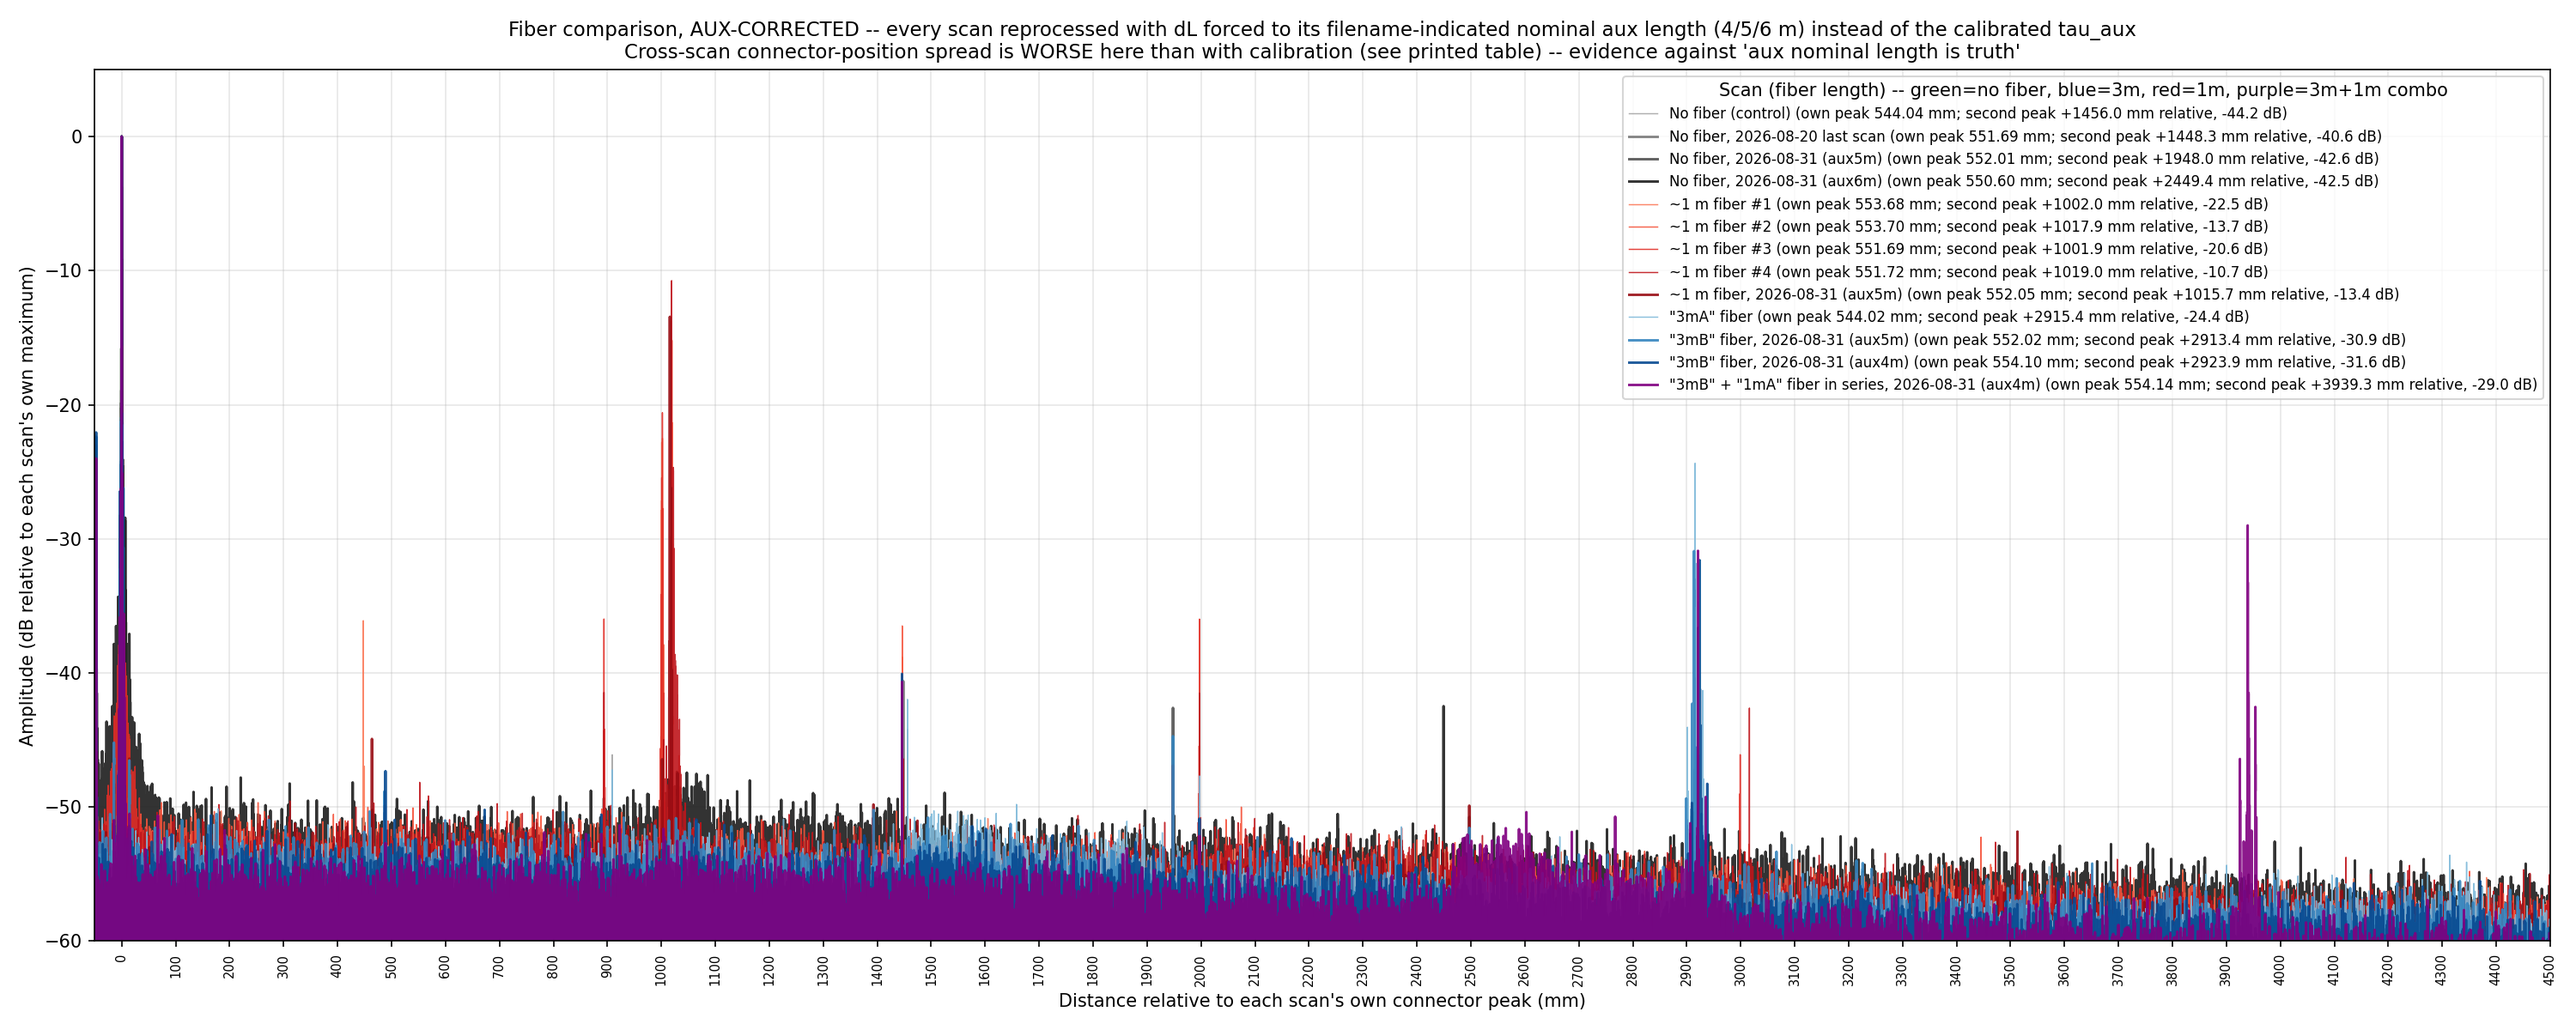
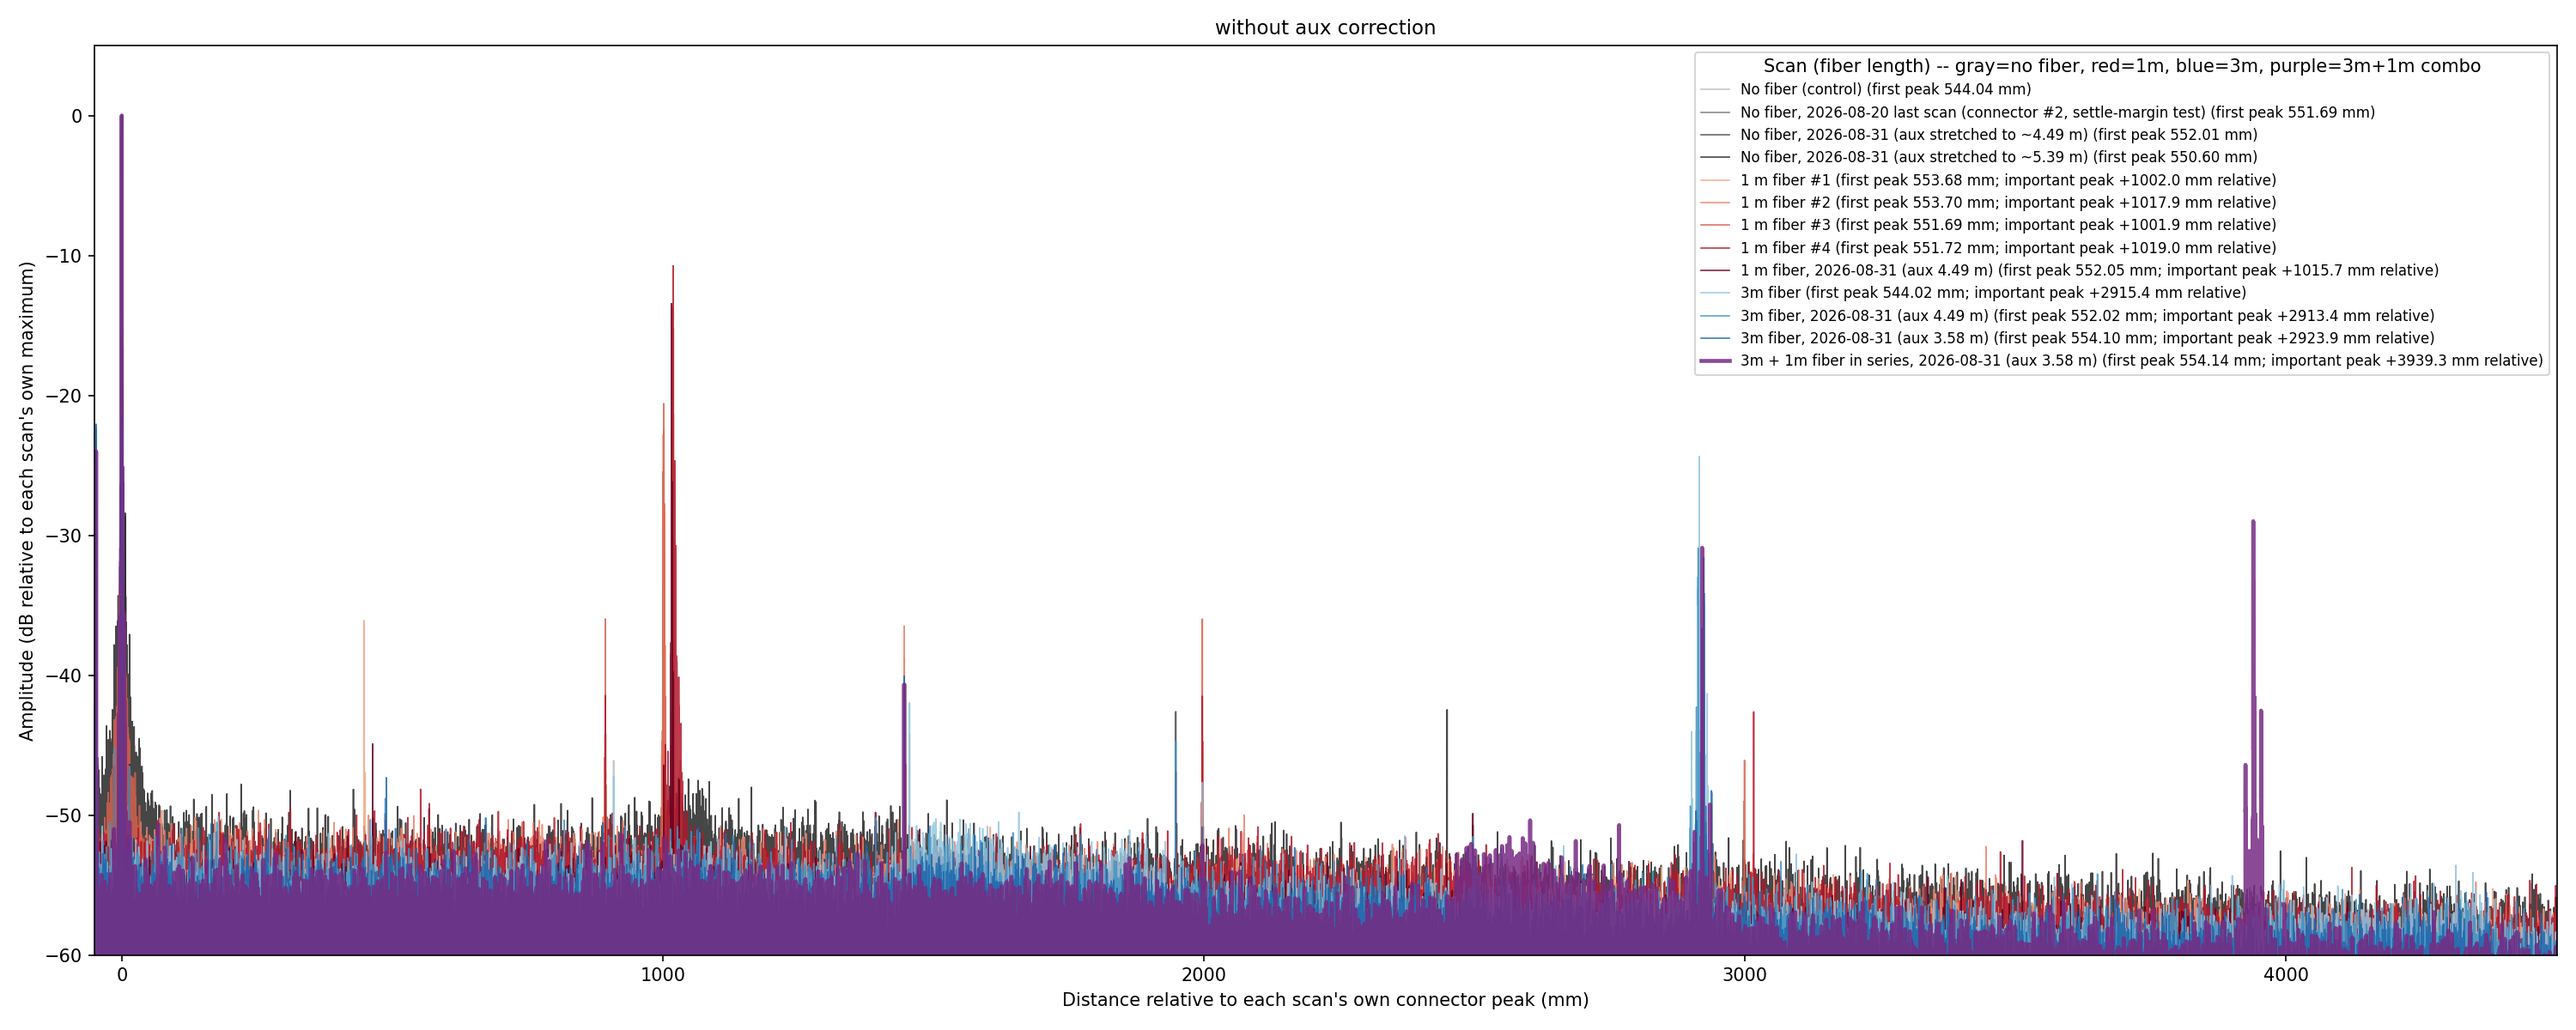
neu

diff --git a/tools/plot_fiber_comparison.py b/tools/plot_fiber_comparison.py
@@ -1,0 +1,263 @@
+#!/usr/bin/env python3
+"""
+Fiber-comparison plots used in the 2026-08-31 progress report (KW36).
+
+Reads the already-processed per-scan reflectogram CSVs under results/ (each
+has columns distance_m, amplitude_dB, normalized to 0 dB at that scan's own
+maximum) and produces:
+
+  - results/<date>/fiber_comparison_relative_to_connector.png
+    every scan's dominant (0 dB) connector peak shifted to x=0, calibrated
+    tau_aux axis.
+  - results/<date>/fiber_comparison_extended_with_2026-08-31.png
+    same data, absolute (not connector-relative) x-axis.
+  - results/<date>/fiber_comparison_aux_corrected.png
+    same scans, but read from results/<date>/aux_corrected/ (dL forced to
+    each scan's filename-indicated nominal aux length instead of the
+    fringe-counting-calibrated tau_aux) -- see logs/2026-08-31.md point 4.
+  - results/<date>/<date>_vs_2026-08-20_nofiber_comparison.png
+    the five 2026-08-20 no-fiber connector-swap controls vs. today's two
+    repeat no-fiber scans, to check whether today's connector position is a
+    new state or matches where the bench was left last session.
+
+"First peak" = each curve's own argmax (its connector reflection).
+"Important peak" = the strongest peak beyond a guard band around the first
+peak (found with scipy.signal.find_peaks on the dB trace, floor -50 dB),
+i.e. the fiber/aux secondary reflection -- see HANDOVER.md and
+logs/2026-08-31.md for the double-bounce interpretation.
+
+Usage: python tools/plot_fiber_comparison.py
+"""
+
+from pathlib import Path
+
+import numpy as np
+from scipy.signal import find_peaks
+
+ROOT = Path(__file__).resolve().parent.parent
+DATE = "2026-08-31"
+OUT = ROOT / "results" / DATE
+
+PEAK_FLOOR_DB = -50.0
+GUARD_MM = 50.0       # exclude the first peak's own sidelobes from the search
+SEARCH_MAX_MM = 4500.0
+MIN_PEAK_SPACING_M = 200e-6  # matches process_reflectogram_aux.py's find_peaks distance
+
+# category -> matplotlib color sequence, one entry per scan in that category,
+# in the order scans are listed below (gray=no fiber, red=1m, blue=3m, purple=combo)
+CATEGORY_COLORS = {
+    "nofiber": ["#bdbdbd", "#757575", "#4d4d4d", "#262626"],
+    "1m": ["#f4a582", "#e8836a", "#d6604d", "#b2182b", "#67001f"],
+    "3m": ["#92c5de", "#4393c3", "#2166ac", "#053061"],
+    "combo": ["#762a83"],
+}
+
+# (label, category, path to calibrated reflectogram CSV, path to
+#  aux-corrected reflectogram CSV) -- both relative to ROOT.
+SCANS = [
+    ("No fiber (control)", "nofiber",
+     "results/2026-08-20/2026-08-20_nofiberattheend_trimmed1530_reflectogram_ch1ch3meas_wide.csv",
+     "results/2026-08-31/aux_corrected/nofiber_control_reflectogram.csv"),
+    ("No fiber, 2026-08-20 last scan (connector #2, settle-margin test)", "nofiber",
+     "results/2026-08-20/2026-08-20_nofiberattheendandnotthorlabsconnectorandfibercleanedandnewconnectorneueeinschwingzeit_full_reflectogram_ch1ch3meas_wide_reflectogram.csv",
+     "results/2026-08-31/aux_corrected/nofiber_0820last_reflectogram.csv"),
+    ("No fiber, 2026-08-31 (aux stretched to ~4.49 m)", "nofiber",
+     "results/2026-08-31/2026-08-31-ohnefiberaux5m_reflectogram_reflectogram.csv",
+     "results/2026-08-31/aux_corrected/nofiber_aux5m_reflectogram.csv"),
+    ("No fiber, 2026-08-31 (aux stretched to ~5.39 m)", "nofiber",
+     "results/2026-08-31/2026-08-31-ohnefiberaux6m_reflectogram_reflectogram.csv",
+     "results/2026-08-31/aux_corrected/nofiber_aux6m_reflectogram.csv"),
+    ("1 m fiber #1", "1m",
+     "results/2026-08-20/2026-08-19_deltaLwirklich1m_trimmed1530_reflectogram_ch1ch3meas_wide.csv",
+     "results/2026-08-31/aux_corrected/1mfiber1_reflectogram.csv"),
+    ("1 m fiber #2", "1m",
+     "results/2026-08-20/2026-08-19_neuefaserauch1mlang_trimmed1530_reflectogram_ch1ch3meas_wide.csv",
+     "results/2026-08-31/aux_corrected/1mfiber2_reflectogram.csv"),
+    ("1 m fiber #3", "1m",
+     "results/2026-08-20/2026-08-19_neueneuefaserauch1mlang_trimmed1530_reflectogram_ch1ch3meas_wide.csv",
+     "results/2026-08-31/aux_corrected/1mfiber3_reflectogram.csv"),
+    ("1 m fiber #4", "1m",
+     "results/2026-08-20/2026-08-19_neueneueneuefaserauch1mlang_trimmed1530_reflectogram_ch1ch3meas_wide.csv",
+     "results/2026-08-31/aux_corrected/1mfiber4_reflectogram.csv"),
+    ("1 m fiber, 2026-08-31 (aux 4.49 m)", "1m",
+     "results/2026-08-31/2026-08-31-1mfiberaux5m_reflectogram_reflectogram.csv",
+     "results/2026-08-31/aux_corrected/1mfiber_aux5m_reflectogram.csv"),
+    ("3m fiber", "3m",
+     "results/2026-08-20/2026-08-20_3mfiber_trimmed1530_reflectogram_ch1ch3meas_wide.csv",
+     "results/2026-08-31/aux_corrected/3mfiber_reflectogram.csv"),
+    ("3m fiber, 2026-08-31 (aux 4.49 m)", "3m",
+     "results/2026-08-31/2026-08-31-3mfiberaux5m_reflectogram_reflectogram.csv",
+     "results/2026-08-31/aux_corrected/3mfiber_aux5m_reflectogram.csv"),
+    ("3m fiber, 2026-08-31 (aux 3.58 m)", "3m",
+     "results/2026-08-31/2026-08-31-3mfiberaux4m_reflectogram_reflectogram.csv",
+     "results/2026-08-31/aux_corrected/3mfiber_aux4m_reflectogram.csv"),
+    ("3m + 1m fiber in series, 2026-08-31 (aux 3.58 m)", "combo",
+     "results/2026-08-31/2026-08-31-3mplus1mfiberaux4m_reflectogram_reflectogram.csv",
+     "results/2026-08-31/aux_corrected/3mplus1mfiber_aux4m_reflectogram.csv"),
+]
+
+# 2026-08-20 connector-swap controls vs. today's two repeats, for the
+# separate connector-family comparison plot.
+NOFIBER_FAMILY_SCANS = [
+    ("2026-08-20 no-fiber, Thorlabs connector",
+     "results/2026-08-20/2026-08-20_nofiberattheend_trimmed1530_reflectogram_ch1ch3meas_wide.csv",
+     "#4c72b0", 0.7, 1),
+    ("2026-08-20 no-fiber, connector #1",
+     "results/2026-08-20/2026-08-20_nofiberattheendandnotthorlabsconnector_trimmed1530_reflectogram_ch1ch3meas_wide_reflectogram.csv",
+     "#dd8452", 0.7, 1),
+    ("2026-08-20 no-fiber, connector #1 (cleaned)",
+     "results/2026-08-20/2026-08-20_nofiberattheendandnotthorlabsconnectorandfibercleaned_trimmed1530_reflectogram_ch1ch3meas_wide_reflectogram.csv",
+     "#55a868", 0.7, 1),
+    ("2026-08-20 no-fiber, connector #2",
+     "results/2026-08-20/2026-08-20_nofiberattheendandnotthorlabsconnectorandfibercleanedandnewconnector_trimmed1533_reflectogram_ch1ch3meas_wide_reflectogram.csv",
+     "#8c4b4b", 0.7, 1),
+    ("2026-08-20 no-fiber, connector #2 (settle-margin test)",
+     "results/2026-08-20/2026-08-20_nofiberattheendandnotthorlabsconnectorandfibercleanedandnewconnectorneueeinschwingzeit_full_reflectogram_ch1ch3meas_wide_reflectogram.csv",
+     "#8172b2", 0.7, 1),
+    ("2026-08-31 no-fiber (today, 1st scan)",
+     "results/2026-08-31/2026-08-31-ohnefiberallesnormalerstemessungdestages_reflectogram_reflectogram.csv",
+     "black", 1.0, 2),
+    ("2026-08-31 no-fiber (today, 2nd scan)",
+     "results/2026-08-31/2026-08-31-ohnefiberallesnormalzweitemessungdestages_reflectogram_reflectogram.csv",
+     "magenta", 1.0, 2),
+]
+
+REFLECTOR_587_MM = 587.82   # Thorlabs/connector-#2 family reference (own peak, no-fiber control)
+REFLECTOR_518_MM = 518.0    # second fixed internal reflection, see HANDOVER.md
+
+
+def load_csv(path):
+    d = np.genfromtxt(ROOT / path, delimiter=",", skip_header=1)
+    return d[:, 0] * 1000.0, d[:, 1]  # distance in mm, amplitude in dB
+
+
+def find_first_and_important_peak(z_mm, db):
+    """Own connector peak (argmax) + strongest peak beyond the guard band."""
+    i0 = int(np.argmax(db))
+    first_mm = z_mm[i0]
+    rel_mm = z_mm - first_mm
+
+    dz_m = (z_mm[1] - z_mm[0]) / 1000.0
+    distance = max(3, int(MIN_PEAK_SPACING_M / dz_m))
+    pk, _ = find_peaks(db, height=PEAK_FLOOR_DB, distance=distance)
+
+    candidates = [
+        (rel_mm[p], db[p]) for p in pk
+        if GUARD_MM < rel_mm[p] < SEARCH_MAX_MM
+    ]
+    if not candidates:
+        return first_mm, None, None
+    important_rel_mm, important_db = max(candidates, key=lambda c: c[1])
+    return first_mm, important_rel_mm, important_db
+
+
+def legend_label(label, category, first_mm, important_rel_mm):
+    base = f"{label} (first peak {first_mm:.2f} mm"
+    # no-fiber scans have no real secondary reflector -- whatever find_peaks
+    # turns up beyond the guard band there is just noise, not worth showing
+    if important_rel_mm is None or category == "nofiber":
+        return base + ")"
+    return base + f"; important peak {important_rel_mm:+.1f} mm relative)"
+
+
+def plot_comparison(csv_key, mode, out_path, title, subtitle, xlabel):
+    """mode: 'relative' (x-axis re-referenced to each scan's first peak) or
+    'absolute' (raw distance)."""
+    import matplotlib
+    matplotlib.use("Agg")
+    import matplotlib.pyplot as plt
+
+    fig, ax = plt.subplots(figsize=(20, 8))
+    color_counts = {cat: 0 for cat in CATEGORY_COLORS}
+
+    for label, category, csv_calibrated, csv_aux_corrected in SCANS:
+        csv_path = csv_calibrated if csv_key == "csv" else csv_aux_corrected
+        z_mm, db = load_csv(csv_path)
+        first_mm, important_rel_mm, _ = find_first_and_important_peak(z_mm, db)
+
+        x = (z_mm - first_mm) if mode == "relative" else z_mm
+        color = CATEGORY_COLORS[category][color_counts[category]]
+        color_counts[category] += 1
+        lw = 2.2 if category == "combo" else 0.8
+
+        ax.plot(x, db, color=color, lw=lw, alpha=0.85,
+                label=legend_label(label, category, first_mm, important_rel_mm))
+
+    ax.set_xlabel(xlabel)
+    ax.set_ylabel("Amplitude (dB relative to each scan's own maximum)")
+    ax.set_title(f"{title}\n{subtitle}" if subtitle else title, fontsize=11)
+    ax.legend(fontsize=8, title="Scan (fiber length) -- gray=no fiber, red=1m, blue=3m, purple=3m+1m combo")
+    ax.set_ylim(-60, 5)
+    if mode == "relative":
+        ax.set_xlim(-50, 4500)
+    else:
+        ax.set_xlim(0, 4500)
+    fig.tight_layout()
+    fig.savefig(out_path, dpi=150)
+    plt.close(fig)
+    print(f"wrote {out_path}")
+
+
+def plot_nofiber_family(out_path):
+    import matplotlib
+    matplotlib.use("Agg")
+    import matplotlib.pyplot as plt
+
+    fig, axes = plt.subplots(1, 2, figsize=(20, 8))
+    ranges = [(0, 750), (0, 3000)]
+    titles = ["0-750 mm (587mm / 518mm family)", "0-3000 mm (wider view)"]
+
+    for ax, (xmin, xmax), sub_title in zip(axes, ranges, titles):
+        for label, csv_path, color, alpha, lw in NOFIBER_FAMILY_SCANS:
+            z_mm, db = load_csv(csv_path)
+            ax.plot(z_mm, db, color=color, alpha=alpha, lw=lw, label=label)
+        ax.axvline(REFLECTOR_587_MM, color="gray", ls="--", lw=1)
+        ax.axvline(REFLECTOR_518_MM, color="gray", ls=":", lw=1)
+        ax.set_xlim(xmin, xmax)
+        ax.set_title(sub_title)
+        ax.set_xlabel("Distance (mm, reflection convention)")
+        ax.set_ylabel("Amplitude (dB rel. own scan's max)")
+        ax.legend(fontsize=8)
+
+    fig.suptitle("No-fiber control: today vs. 2026-08-20 "
+                  "(dashed=587mm family, dotted=518mm family)")
+    fig.tight_layout()
+    fig.savefig(out_path, dpi=150)
+    plt.close(fig)
+    print(f"wrote {out_path}")
+
+
+def main():
+    OUT.mkdir(parents=True, exist_ok=True)
+
+    plot_comparison(
+        csv_key="csv", mode="relative",
+        out_path=OUT / "fiber_comparison_relative_to_connector.png",
+        title="with aux correction",
+        subtitle="",
+        xlabel="Distance relative to each scan's own connector peak (mm)",
+    )
+
+    plot_comparison(
+        csv_key="csv", mode="absolute",
+        out_path=OUT / f"fiber_comparison_extended_with_{DATE}.png",
+        title="Fiber comparison -- all scans referenced (aux = Ch2/Ch4, measurement = Ch1/Ch3)",
+        subtitle="587mm connector family held through 2026-08-20's main sequence; the "
+                  "connector's position later shifted to ~495-496mm (last 2026-08-20 scan "
+                  f"and all of {DATE}, unrelated to aux length) -- see logs/{DATE}.md",
+        xlabel="Distance (mm, one-way / reflection convention)",
+    )
+
+    plot_comparison(
+        csv_key="aux_csv", mode="relative",
+        out_path=OUT / "fiber_comparison_aux_corrected.png",
+        title="without aux correction",
+        subtitle="",
+        xlabel="Distance relative to each scan's own connector peak (mm)",
+    )
+
+    plot_nofiber_family(OUT / f"{DATE}_vs_2026-08-20_nofiber_comparison.png")
+
+
+if __name__ == "__main__":
+    main()

diff --git a/george/progressreport_kw36/progress_report_kw36.md b/george/progressreport_kw36/progress_report_kw36.md
@@ -1,55 +1,46 @@
-Hi — quick update on what happened since the last report.
+Hi — quick update on what happened today
 
----
+First, I wanted to check that the setup was exactly as I had left it, so I compared today’s scan with the last one from 20 August. That was the session where I changed the connector. Last time changing the connector gave me two families for the first peak (depending on which connector I use): one at around 587 mm and one at around 496 mm, today I was still at the 496mm position, which told me nothing had changed
 
-## 1. No-fibre connector peak moved — but it’s not a new mystery
-
-First, I wanted to check that the setup was exactly as I had left it, so I compared today’s scan with the last one from 20 August. That was the session where I changed the connector.
-
-I now have two internally consistent families for the position of the first peak (depending on which connector I use): one at around 587 mm and one at around 496 mm. I still think this first peak comes from the first connector. 
-
----
-
-## 2. Aux calibration reproducibility — mostly fine, but one scan was clearly bad
+Then I wondered:
 
 The aux-arm length has to be known very precisely for the analysis to work at all. I therefore wanted to see what actually happens when it is known imprecisely. That is why I ran several repeat measurements and compared the calculated aux length.
 
-τ_aux is the group delay between the two aux-arm paths. 
+τ_aux is the group delay between the two aux-arm paths and from it the aux lenght can be calculated.
 
 τ_aux = Δφ_aux,unwrapped / (2π · Δf_sweep)
 
 | Scan | τ_aux (ns) | dL (m) |
-|---|---:|---:|
 | 1st | 17.6028 | 3.5948 |
 | 2nd | 17.6058 | 3.5954 |
 | 3rd | 17.0621 | 3.4844 |
 
-This was were the big question of the day showed up: no matter which fibre I used or in which order the fibres were connected, the reported aux length always came out around 0.5 m shorter than I would expect. It should read 4 m, since that is the path difference the aux interferometer was built to have, but its always around 3.5m .
+This was were the big question of the day showed up: no matter which fibre I used or in which order the fibres were connected, the reported aux length always came out around 0.5 m shorter than I would expect. It should read 4 m, since that is the path difference the aux interferometer was built to have, but its always around 3.5m . The measurements on the 20.8.26 gave me a value closer to 4m, but I couldnt bring it back??? It cant be the connector change, because the connector only affects the measurement MZI not the Reference MZI
 
-I double-checked, and the problem does not seem to come from the script or software. When I manually forced the aux length to the nominal 4 m—which I already know is what was built —the results all landed within approximately 2% of their round-number labels, which is much better.
+I dont think, that the problem comes from the software.   . When I manually forced the aux length to the nominal 4 m—which I already know is what was built —the results all landed within approximately 2% of their round-number labels, which is much better.
 
 | Fibre | Before aux correction | With aux correction |
-|---|---:|---:|
-| ~1m #1  | 1062.4 mm | 1002.0 mm |
-| ~1m #2  | 1079.5 mm | 1017.9 mm |
-| ~1m #3  | 1067.1 mm | 1001.9 mm |
-| ~1m #4  | 1086.0 mm | 1019.0 mm |
-| ~1m aux5m  | 912.0 mm | 1015.7 mm |
-| 3m (20 Aug)| 3147.2 mm | 2915.4 mm |
-| 3m aux5m  | 2616.5 mm | 2913.4 mm |
-| 3m aux4m  | 2615.5 mm | 2923.9 mm |
-| 3m + 1m aux4m | 3523.8 mm | 3939.3 mm |
+| 1m #1  | 1062.4 mm | 1002.0 mm |20th august
+| 1m #2  | 1079.5 mm | 1017.9 mm |20th august
+| 1m #3  | 1067.1 mm | 1001.9 mm |20th august
+| 1m #4  | 1086.0 mm | 1019.0 mm |20th august
+| 1m aux5m  | 912.0 mm | 1015.7 mm | 31st August
+| 3m | 3147.2 mm | 2915.4 mm |20th august
+| 3m aux5m  | 2616.5 mm | 2913.4 mm | 31st August
+| 3m aux4m  | 2615.5 mm | 2923.9 mm | 31st August
+| 3m + 1m aux4m | 3523.8 mm | 3939.3 mm | 31st August
 
 However, I still wouldn’t trust that result.
 
-There are still some results that make me think the measurement itself is working correctly, but is somehow falsely calibrated:
+I think there is an error in calibration and I dont think that all the results are made up or something, since...
 
-- I measured the approximately 1 m fibre and the “3 m” fibre—now labelled “3mB” to distinguish it from the physically different 3 m fibre used last time, which is now “3mA”—using two different aux configurations, with the aux built to approximately 5 m and 4 m dL. In both cases, the same secondary peak appeared at the same position within approximately 1 mm, which is good.
-- I also measured 3mB and a 1 m fibre (“1mA”) individually and then connected them in series. From the two individual measurements, I predicted a total length of 3527.5 mm. The combined measurement gave 3523.8 mm, so the difference was only around 4 mm, which seems fine.
+- I measured 3m and a 1 m fibre  individually and then connected them in series. From the two individual measurements, I predicted a total length of 3527.5 mm. The combined measurement gave 3523.8 mm, so the difference was only around 4 mm, which seems fine.
 
-**The root cause is still open.**
+- I measured the approximately 1 m fibre and the 3 m fibre
+using two different aux configurations, with the aux built to approximately 5 m and 4 m dL. In both cases, the same secondary peak appeared at the same position within approximately 1 mm, which is good.
 
-I have now tested all the fibre and connector configurations I could think of, both for the aux length and the measurement length. At this point, I’m not really sure how to continue because I still don’t know where exactly the problem lies.
+
+I have now tested all the fibre and connector configurations I could think of, both for the aux length and the measurement length. At this point, I’m not really sure how to continue because I still don’t know how to fix the problem, that the aux fiber is calibrated rightly...
 
 Plots attached:
 
